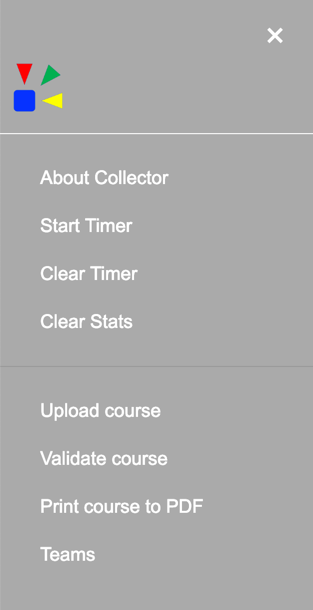
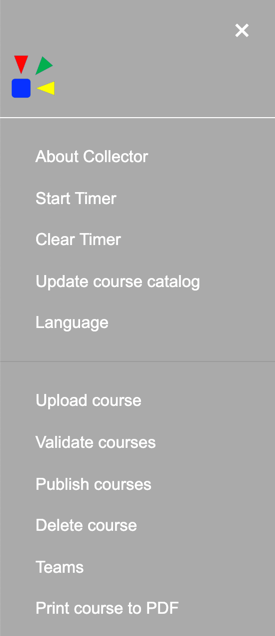
V3 modifications

diff --git a/public/index.html b/public/index.html
@@ -615,9 +615,11 @@
                                     </div>
                                 </form>
                             </div>
+                            <!-- 
                             <button class="btn btn-outline-primary mx-left float-left" type="button" onclick="validateCourses()">
                             <span id="modal_ful_btn1"></span>
                             </button>
+                            -->
                         </div>
                         <div class="modal-footer">
                             <button type="button" class="btn btn-primary" data-dismiss="modal"><span id="modal_ful_btn2"></span></button>

diff --git a/README.md b/README.md
@@ -31,7 +31,8 @@ The instructor is provided with the following additional menu options:
 1. __About Collector__ - About information for Collector.
 2. __Start Timer__ - Set and start a timer.
 3. __Clear Timer__ - Clear and reset the timer display information.
-4. __Clear Stats__ - Reset the information that is shown on the Statistics tab.
+4. __Update course catalog__ - Update the available courses by retrieving the latest course catalog from the instructor.
+5. __Language__ - Select the user interface language.  Choices are English, French, German, and Spanish.
 
 ![](mdimages/menu_student.png)
 --
@@ -48,14 +49,187 @@ The instructor is provided with the same tabs as the student plus the __Insights
 The instructor is provided with the same menu options as the student plus the following additional options:
 
 1. __Upload course__ - Add a course to the existing course catalog instance via a drag-n-drop interface.
-2. __Validate course__ - Validate the course to help ensure it will be processed properly within the instruction process of Collector.
-3. __Print course to PDF__ - Create a PDF file of the course content.
-4. __Teams__ - View the defined team (or) students names and colors that are used when displaying statistics.
+2. __Validate courses__ - Validate the course to ensure it will be processed properly within the instruction process of Collector.
+3. __Publish courses__ - Publish course content to catalog for downloading by student.
+4. __Delete course__ - Delete a single course "md" file from coursecatalog directory.
+5. __Teams__ - View the defined team (or) students names and colors that are used when displaying statistics.
+6. __Print course to PDF__ - Create a PDF file of the course content.
 
 
 ![](mdimages/menu_instructor.png)
 
 
+----
+### Menu option displays
+
+#### About Collector
+
+The following is shown when the __About Collector__ menu item is selected.  To close the display press the 'X' in the upper right corner or click outside the display modal. 
+
+![](mdimages/menu_about.png)
+
+<br><br>
+#### Start Timer
+
+The following is shown when the __Start Timer__ menu item is selected.  To close the display press the blue close button or click outside the display modal.  To start the timer enter a numeric value for the number of minutes the timer is run. 
+
+![](mdimages/menu_start_timer.png)
+
+Once started the timer is started the display shows the hours, minutes and seconds remaining.  This is displayed in the upper region of the user interface.
+
+![](mdimages/menu_timer_running.png)
+
+When the timer has reached to end of the timed period the following is displayed:
+
+![](mdimages/menu_timer_stopped.png)
+
+
+
+<br><br>
+#### Clear Timer
+
+When the __Clear Timer__ menu item is selected the timer dispaly information is removed from the user interface.
+
+> No image to display
+
+<br><br>
+
+#### Update course catalog
+
+When the __Update course catalog__ menu item is selected the following modal is displayed.  Press the 'Close' button without pressing the update button to cancel and not update the coure catalog.  Press the 'Update' button to retrieve the latest course catalog from the instructor.  
+
+![](mdimages/menu_update_course_catalog.png)
+
+Processing messages are displayed in the modal indicating if the update was successful or failed:
+
+- Pass message:  Updated completed succcessfully
+- Fail message:  Update failed:  ECONNREFUSED. (the ECONNREFUSED portion of the message may change based on the error that has occurred.)
+
+
+
+<br><br>
+#### Language
+
+When the __Language__ menu item is selected the following modal is displayed.    
+
+![](mdimages/menu_language.png)
+
+Select the desired language from the drop down option list.  Then press the 'Select' button to set the language.
+
+![](mdimages/menu_lang_options.png)
+
+Example of the Language menu modal with French having been selected.
+
+![](mdimages/menu_lang_french.png)
+
+
+
+
+<br><br>
+#### Upload Course
+
+When the __Upload course__ menu item is selected the following modal is displayed.    
+
+![](mdimages/menu_upload_course.png)
+
+Drag one or more course files to the file drop area.  If the file successfully uploads a box with a checkmark will be displayed for a short period.  The checkmark then is removed and a box with the file size is displayed.
+
+| Description | Image |
+| :--- | :---: |
+| checkmark| ![](mdimages/menu_upload_check.png) |
+| success |  ![](mdimages/menu_upload_good.png) |
+
+
+
+
+<br><br>
+#### Validate courses
+
+When the __Validate courses__ menu item is selected the following modal is displayed.  Validation processing of the course files is run and once completed the results are displayed.   
+
+![](mdimages/menu_validate_courses.png)
+
+
+
+<br><br>
+#### Publish courses
+
+When the __Publish courses__ menu item is selected the following modal is displayed.  Publishing a course will make the course available for students.  If the course is available the 'Published' column will have the value __Yes__.  Otherwise the column will contain __No__. To change the status of the course press the 'Toggle' button on the same line as the course in the displayed table.  The 'Published' column should toggle.  
+
+![](mdimages/menu_publish_courses.png)
+
+
+The follwing displays the results when the last two courses in the table have been changed to indicate the courses are not publishted.
+
+![](mdimages/menu_unpublish.png)
+
+
+When a course is published or the status is changed this will affect the dropdown of available courses on the __Courses__ tab.  The follwing table displays the differnt results for the above examples.
+
+
+| Description | Course catalog dropdown |
+| :--- | :---: |
+| All courses published | ![](mdimages/menu_publish_list1.png) |
+| Only two courses published |  ![](mdimages/menu_publish_list2.png) |
+
+
+
+<br><br>
+#### Delete course
+
+When the __Delete course__ menu item is selected the following modal is displayed.  Course files can be deleted from the course catalog directory.  This menu option will __DELETE__ the file and does not validate the request.  Use this option with caution as the file is really deleted from the directory.  
+
+![](mdimages/menu_delete_course.png)
+
+
+Select the file to delete from the dropdown.
+
+![](mdimages/menu_delete_list.png)
+
+
+Result of the delete course processing.
+
+![](mdimages/menu_delete_good.png)
+
+
+
+
+<br><br>
+#### Teams
+
+When the __Teams__ menu item is selected the following modal is displayed.  This option will display the complete list of team names and color combinations as defined in the default configuration file __team.json__. 
+![](mdimages/menu_teams.png)
+
+
+
+
+
+<br><br>
+#### Print course to PDF
+
+When the __Print course to PDF__ menu item is selected the following modal is displayed.  This option provides the ability for the instructor to create a PDF for the selected course.   
+
+![](mdimages/menu_print.png)
+
+Select the course file from the dropdown that will have the PDF created.
+
+![](mdimages/menu_print_list.png)
+
+Process the course file and generate the PDF by pressing the 'Print' button.
+
+![](mdimages/menu_print_selected.png)
+
+Once the PDF has been created review the output by pressing the 'Preview generated PDF' link.
+
+![](mdimages/menu_print_complete.png)
+
+Reviewing the PDF (shown using the browser viewer).
+
+![](mdimages/menu_print_review.png)
+
+
+
+----
 ----
 
 ### User interface tabs
